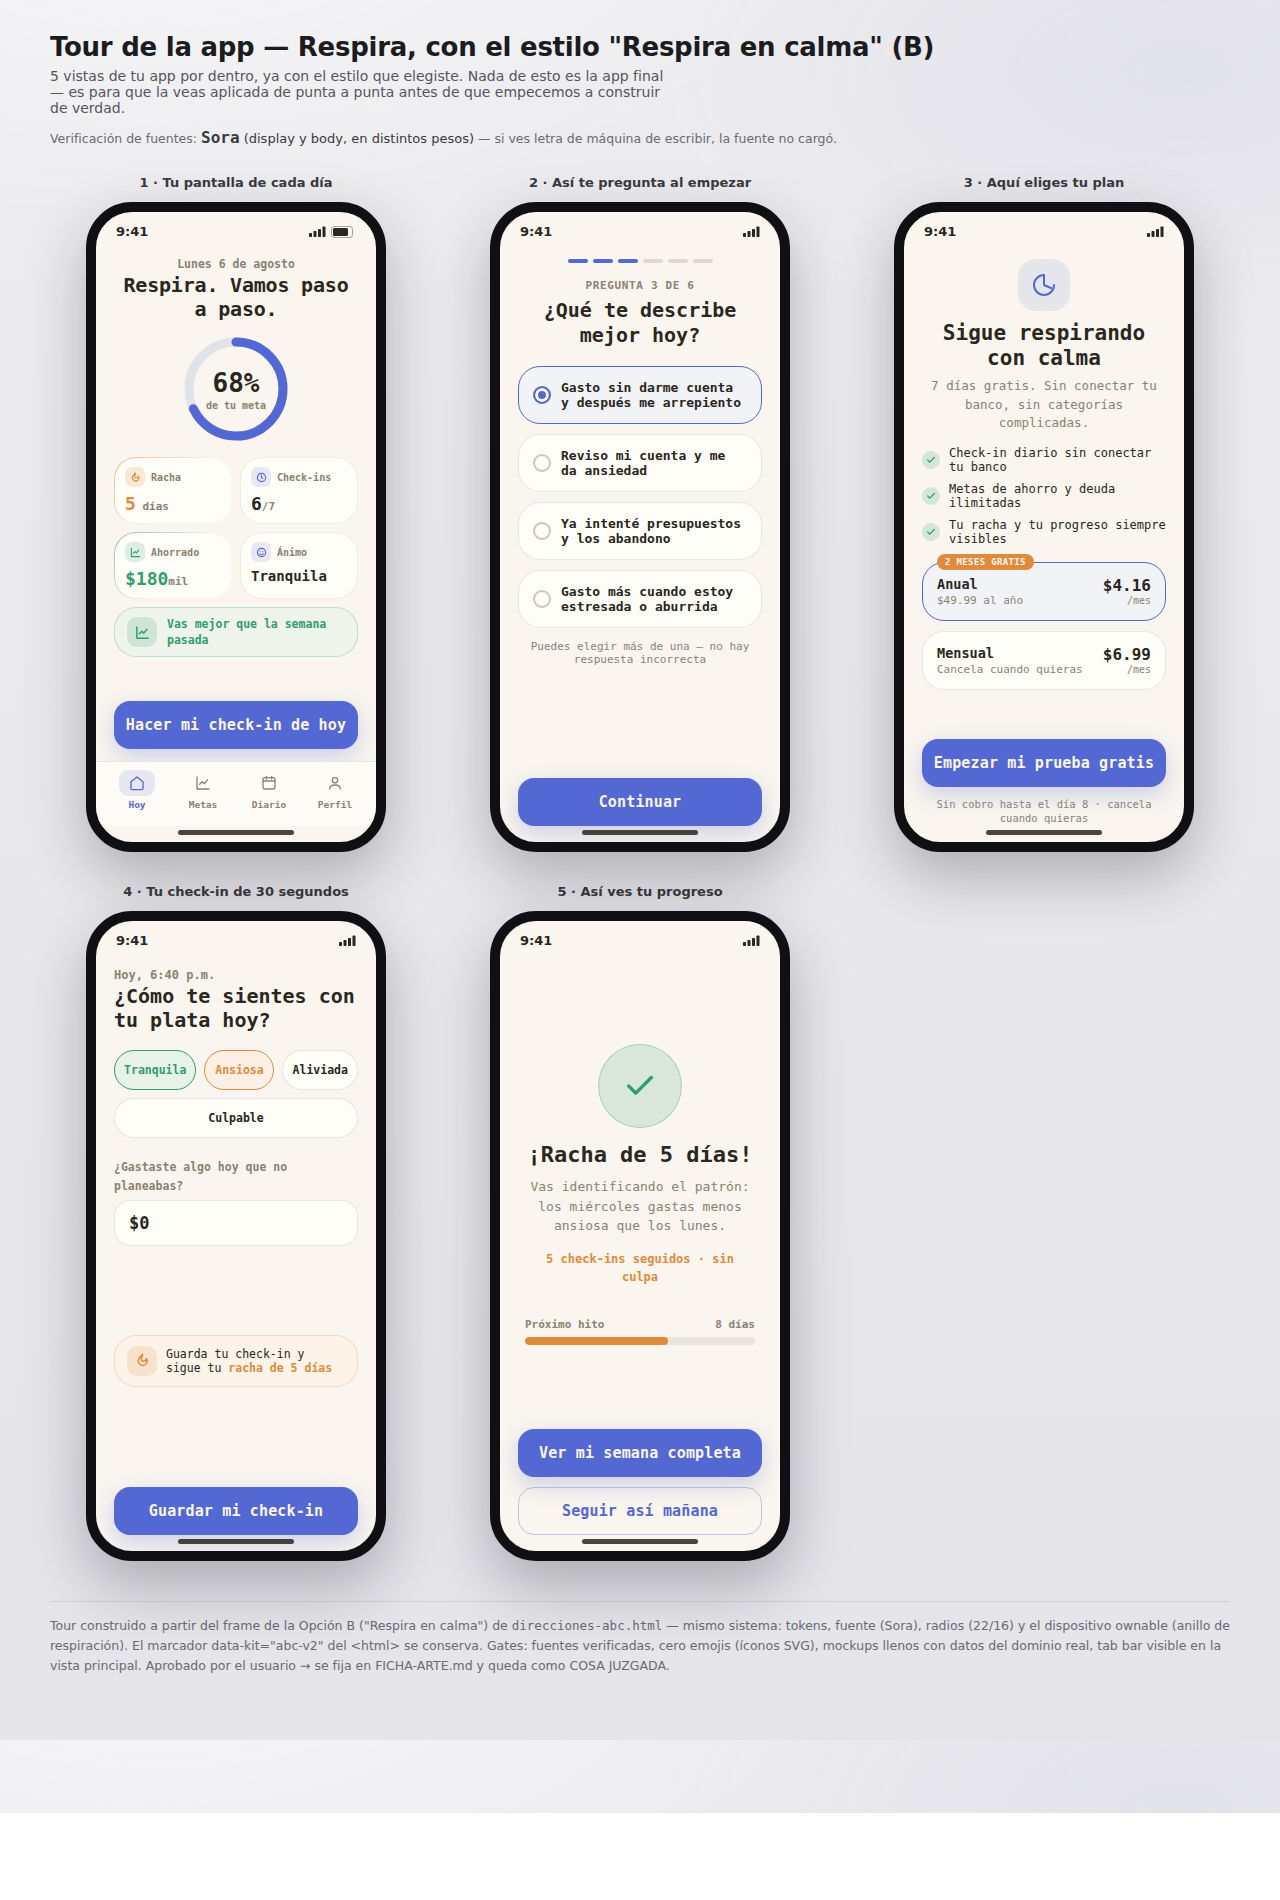
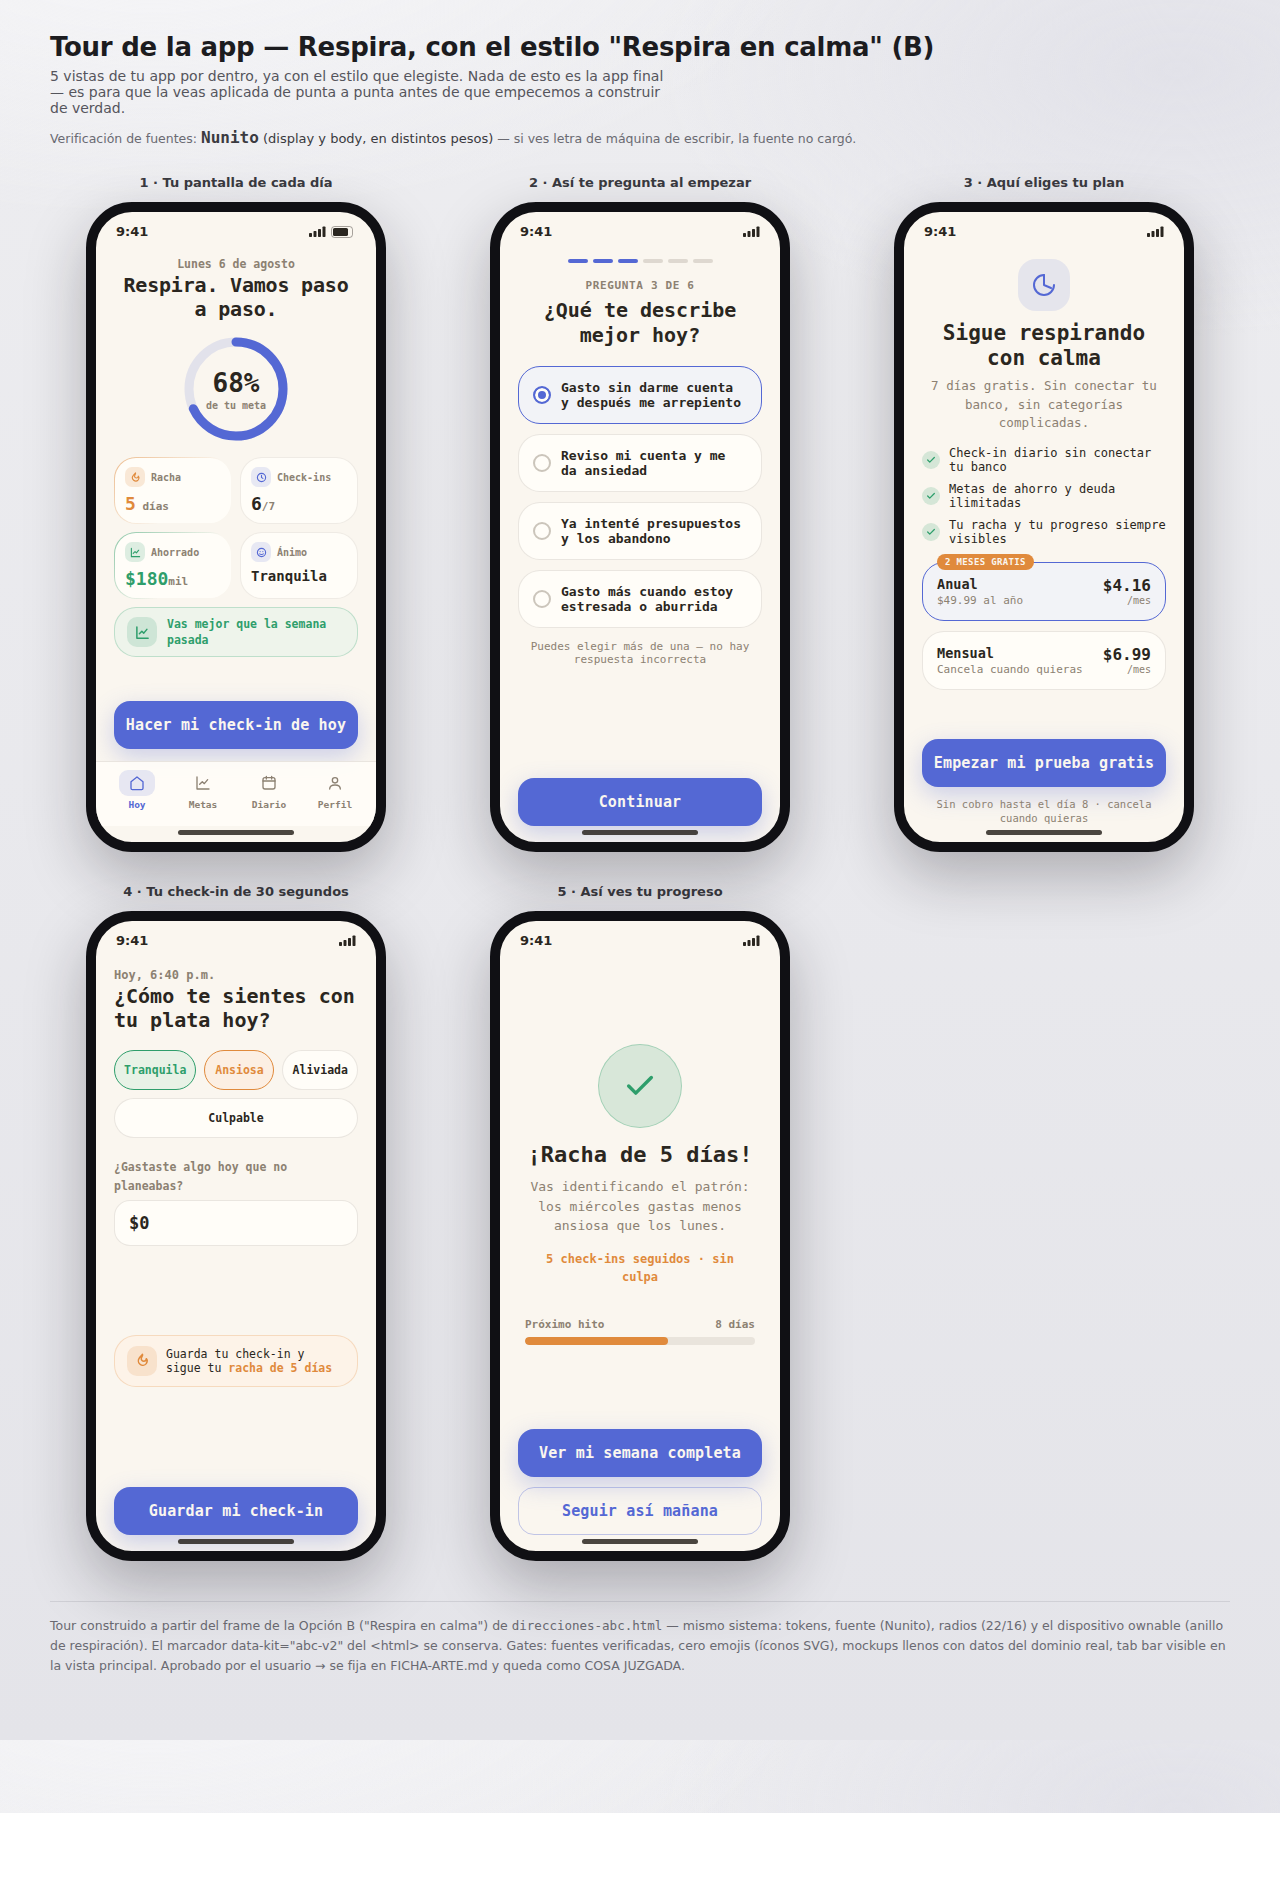
Aplica Nunito (elegida por el usuario) al tour de Respira
Claude-Session: https://claude.ai/code/session_013BYtLeMwZuWh58hVzwvyD5

diff --git a/vista-previa-app.html b/vista-previa-app.html
@@ -7,7 +7,7 @@
 
 <link rel="preconnect" href="https://fonts.googleapis.com">
 <link rel="preconnect" href="https://fonts.gstatic.com" crossorigin>
-<link href="https://fonts.googleapis.com/css2?family=Sora:wght@400;500;600;700;800&display=swap" rel="stylesheet">
+<link href="https://fonts.googleapis.com/css2?family=Nunito:wght@400;600;700;800&display=swap" rel="stylesheet">
 
 <style>
   * { margin: 0; padding: 0; box-sizing: border-box; }
@@ -22,8 +22,8 @@
     --accent-orange: #e08a3c;
     --radius-card: 22px;
     --radius-btn: 16px;
-    --font-display: 'Sora', monospace;
-    --font-body: 'Sora', monospace;
+    --font-display: 'Nunito', monospace;
+    --font-body: 'Nunito', monospace;
     --shadow-tinta: 42 38 32;
   }
   body {
@@ -203,7 +203,7 @@
 </header>
 <p class="aviso-fuentes">
   Verificación de fuentes: <span class="especimen-global" style="display:inline;border:none;background:none;padding:0;">
-  <b>Sora</b> (display y body, en distintos pesos)</span> — si ves letra de máquina de escribir, la fuente no cargó.
+  <b>Nunito</b> (display y body, en distintos pesos)</span> — si ves letra de máquina de escribir, la fuente no cargó.
 </p>
 
 <div class="vistas">
@@ -394,7 +394,7 @@
 
 <footer class="pie">
   Tour construido a partir del frame de la Opción B ("Respira en calma") de <code>direcciones-abc.html</code> — mismo sistema:
-  tokens, fuente (Sora), radios (22/16) y el dispositivo ownable (anillo de respiración). El marcador
+  tokens, fuente (Nunito), radios (22/16) y el dispositivo ownable (anillo de respiración). El marcador
   data-kit="abc-v2" del &lt;html&gt; se conserva. Gates: fuentes verificadas, cero emojis (íconos SVG), mockups
   llenos con datos del dominio real, tab bar visible en la vista principal. Aprobado por el usuario → se fija en
   FICHA-ARTE.md y queda como COSA JUZGADA.

diff --git a/ESTADO.md b/ESTADO.md
@@ -1,7 +1,7 @@
 # ESTADO — Respira
 Última actualización: 2026-09-17 | Sesión actual: 1
 
-⏸ CHECKPOINT — Última acción completada: usuario pidió ajustar el tour (más color — verde y naranja — y menos espacios vacíos); se agregaron 2 notas de color funcionales (verde=progreso, naranja=racha/hito) y se llenaron los espacios de las 5 vistas; tour re-renderizado. / Siguiente acción exacta: mostrar el tour ajustado y esperar 1/2/3 de nuevo (me encanta / ajustar otro detalle / repensar). Si aprueba → cerrar FICHA-ARTE.md (fecha + aprobada:SÍ), volcar tokens a globals.css y arrancar Sesión 3 (página de ventas).
+⏸ CHECKPOINT — Última acción completada: usuario no sintió la tipografía (DM Sans); se compararon A) Sora B) Nunito C) Fraunces+Instrument Sans y el usuario eligió **Nunito**; tour re-renderizado con Nunito, sin desbordes. / Siguiente acción exacta: mostrar el tour final y esperar 1/2/3 (me encanta / ajustar otro detalle / repensar). Si aprueba → cerrar FICHA-ARTE.md (fecha + aprobada:SÍ), volcar tokens a globals.css y arrancar Sesión 3 (página de ventas).
 
 ## Qué es esta app (3 líneas máximo)
 App de hábito diario que acompaña a mujeres 25-35 LATAM a dejar de gastar por ansiedad: check-in emocional diario + seguimiento simple de 1-2 metas de ahorro/deuda, sin conectar cuenta bancaria. Freemium con suscripción mensual/anual.
@@ -19,7 +19,7 @@ App de hábito diario que acompaña a mujeres 25-35 LATAM a dejar de gastar por 
 ## Dirección de Arte (Sesión 2 — en curso, falta aprobar el tour)
 - FICHA-ARTE.md: creada, opción **B "Respira en calma"** elegida — falta la aprobación del TOUR DE LA APP para cerrarla como cosa juzgada.
 - ¿Hubo referencia visual del usuario?: NO — eligió que el agente proponga (opción 1 de LA PREGUNTA DE REFERENCIA).
-- Brand kit de B: fondo `#FAF6EF` · acento primario `#5468D4` (azul-lila) + verde `#2E9E6B` (progreso) + naranja `#E08A3C` (racha/hito) · DM Sans (una sola familia) · radio 22/16 · dispositivo ownable: anillo de respiración.
+- Brand kit de B: fondo `#FAF6EF` · acento primario `#5468D4` (azul-lila) + verde `#2E9E6B` (progreso) + naranja `#E08A3C` (racha/hito) · Nunito (una sola familia, redondeada y cálida) · radio 22/16 · dispositivo ownable: anillo de respiración.
 - Modo: claro (derivado — rompe con el fintech oscuro institucional).
 - Nota técnica: Sentient/Switzer (Fontshare) se descartó por bloqueo de red del entorno de construcción — se usó DM Sans (Google Fonts), misma familia de mood, sin cambiar la paleta ni la composición elegida.
 

diff --git a/FICHA-ARTE.md b/FICHA-ARTE.md
@@ -34,7 +34,7 @@
 - 2ª nota `#2E9E6B` (verde — progreso positivo: ahorro, check-ins buenos, éxito) · 3ª nota `#E08A3C` (naranja — racha/hito/estado de alerta leve, NUNCA rojo)
   → las 3 notas responden al "semáforo de calma" ya documentado en Mundo del sujeto: verde=tranquila, naranja=alerta leve, azul=marca/acción — se agregaron a pedido del usuario tras ver el tour ("le veo muchos espacios" + quería más color); siguen la regla 60-30-10 (el azul-lila sigue siendo el dominante de marca, verde y naranja son notas funcionales, no decorativas)
 - Radio 22/16 · Sombra tintada 42·38·32
-- Display **DM Sans** (700) · Body **DM Sans** (400/500) — combinación probada "Bienestar/meditación" de `29-REFERENCIA-VISUAL.md` (Sentient/Switzer se descartó: requiere Fontshare, bloqueado en el entorno de construcción; DM Sans es la misma familia de mood cálido/geométrico, embebible por Google Fonts sin riesgo)
+- Display **Nunito** (700/800) · Body **Nunito** (400/600) — combinación probada "Hábitos/gamificada" de `29-REFERENCIA-VISUAL.md` (redondeada, cálida, amigable). Recorrido de la decisión: Sentient/Switzer (Fontshare) se descartó por bloqueo de red del entorno → se probó DM Sans → el usuario no la sintió cálida → se comparó A) Sora B) Nunito C) Fraunces+Instrument Sans (`tipografia-opciones.html`) → el usuario eligió **Nunito** por sentirse "más amigable y humana".
 - Composición: anillo de respiración centrado + grid 2×2 de señales (racha en naranja, check-ins en azul, ahorro en verde, ánimo en azul) + tarjeta de insight + aviso de racha — pantallas más densas de contenido tras el ajuste del usuario
 - Dispositivo ownable: el anillo que "respira" — mismo gesto que el nombre de la app
 
